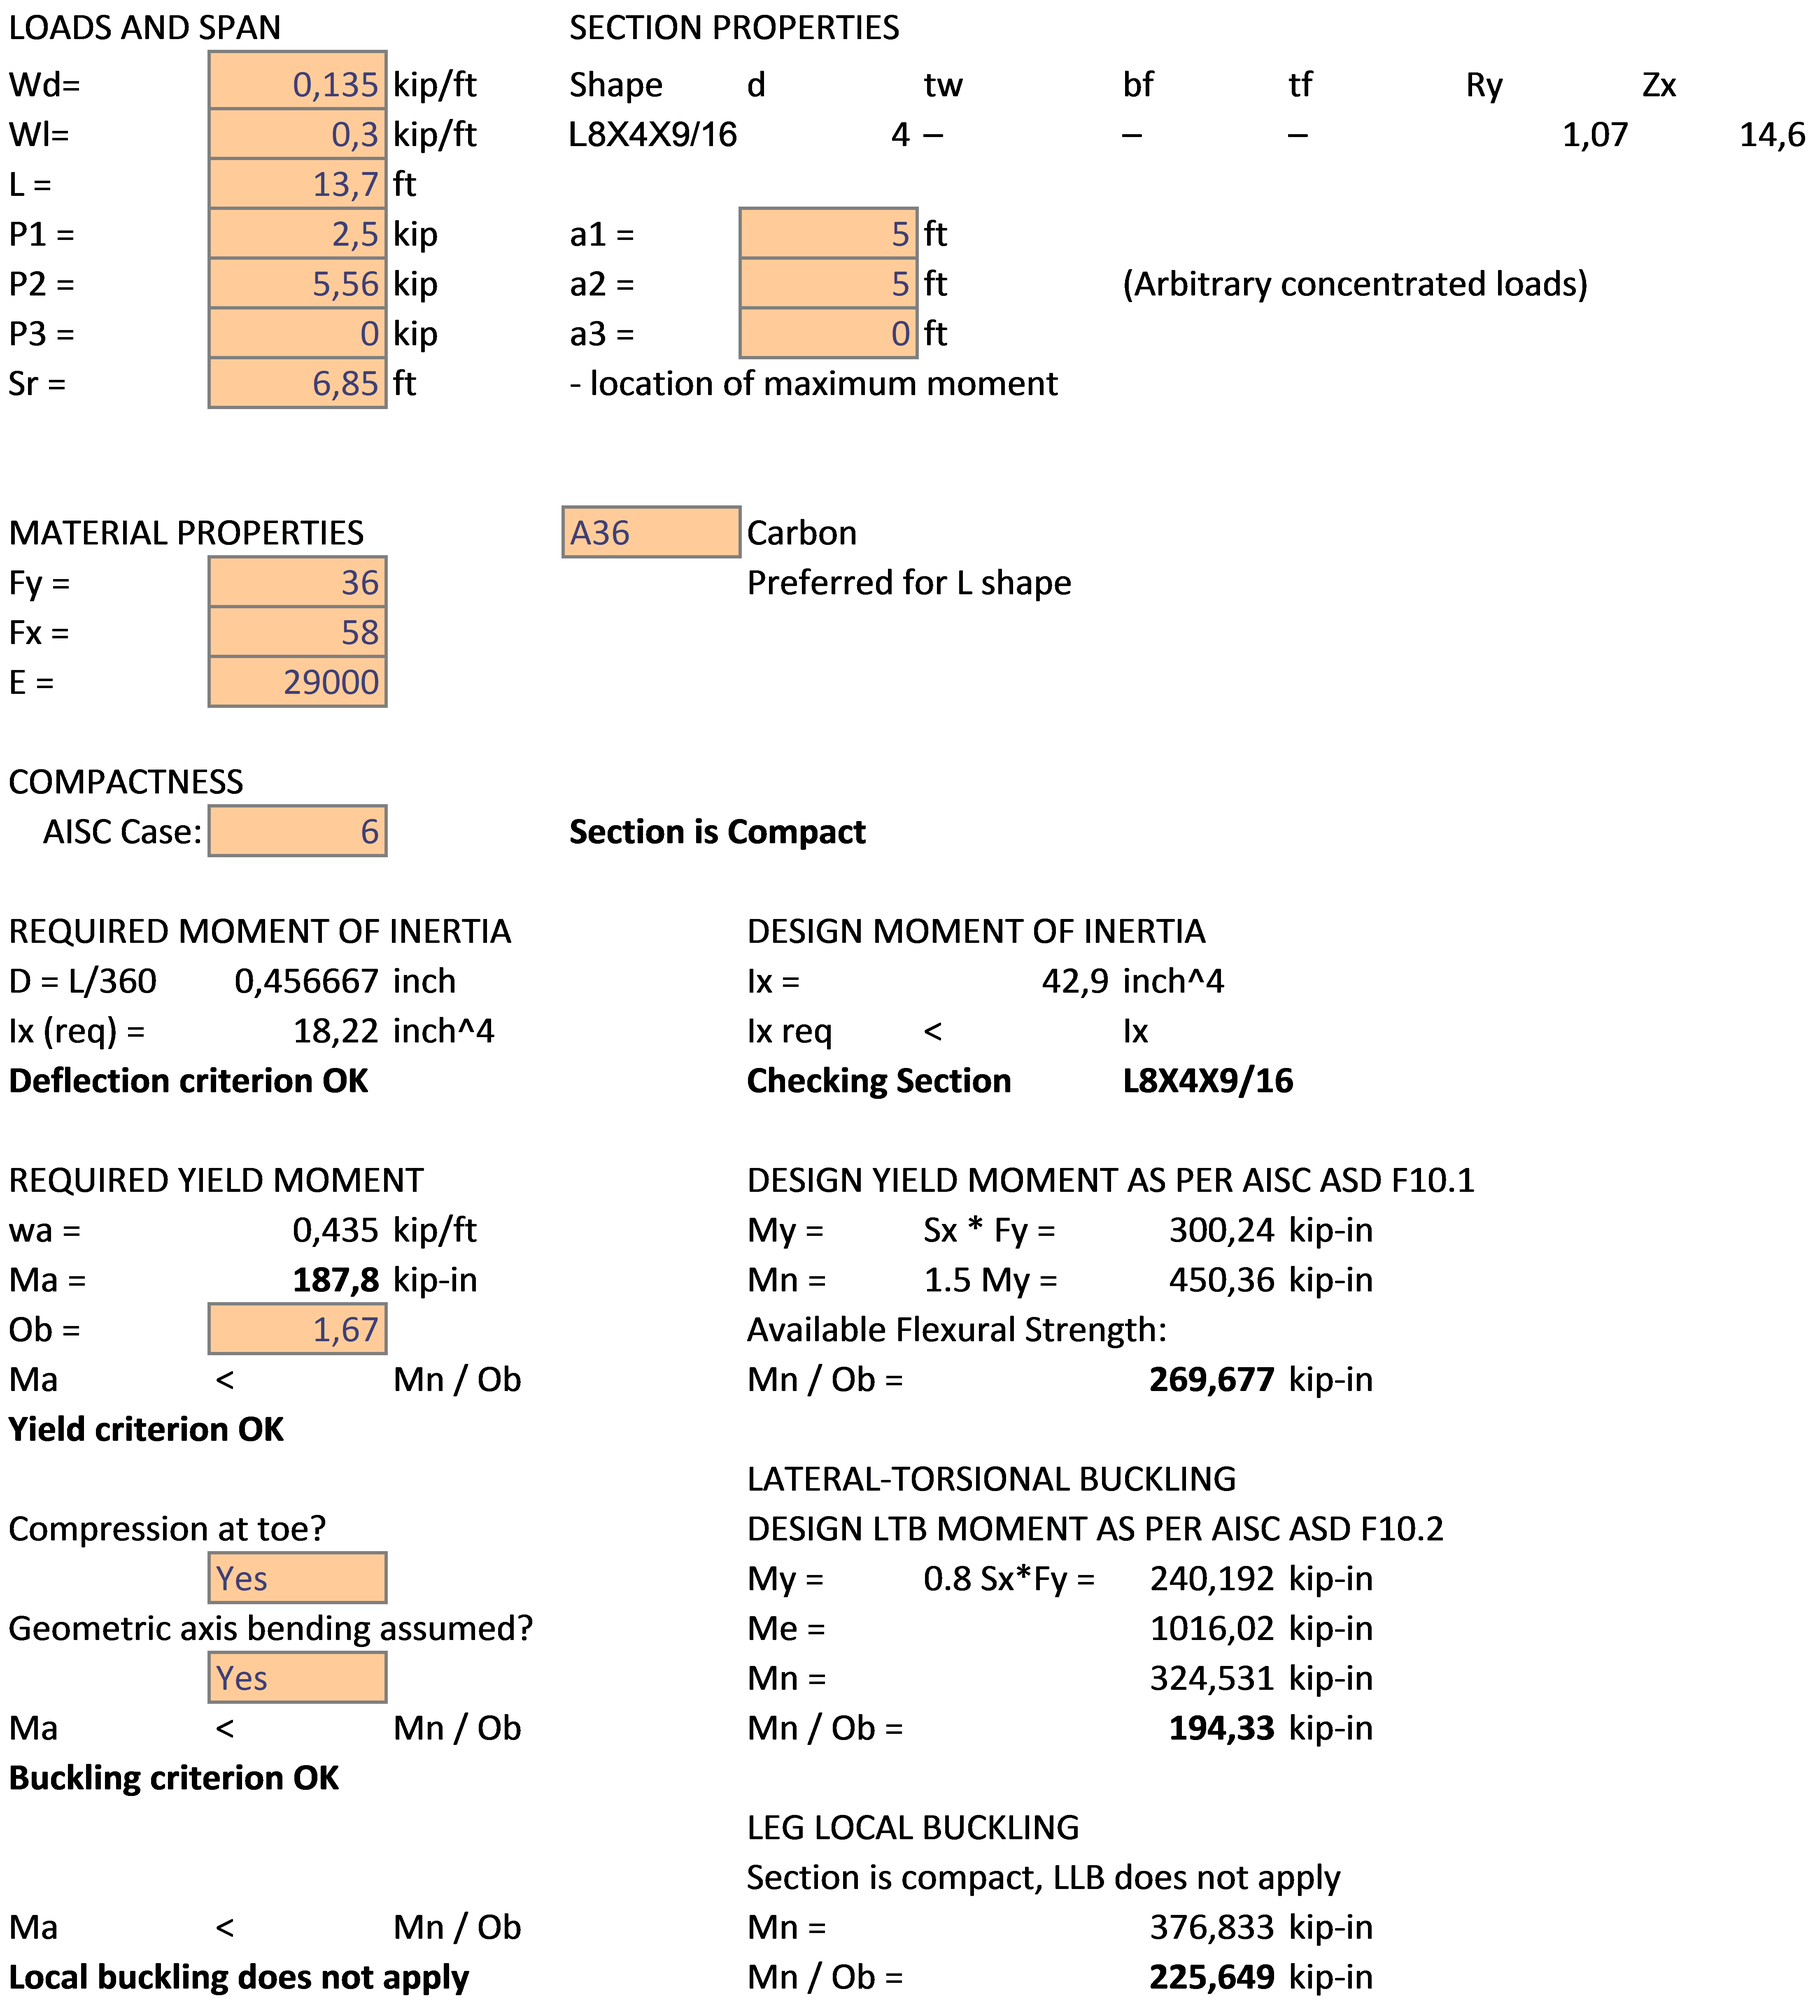
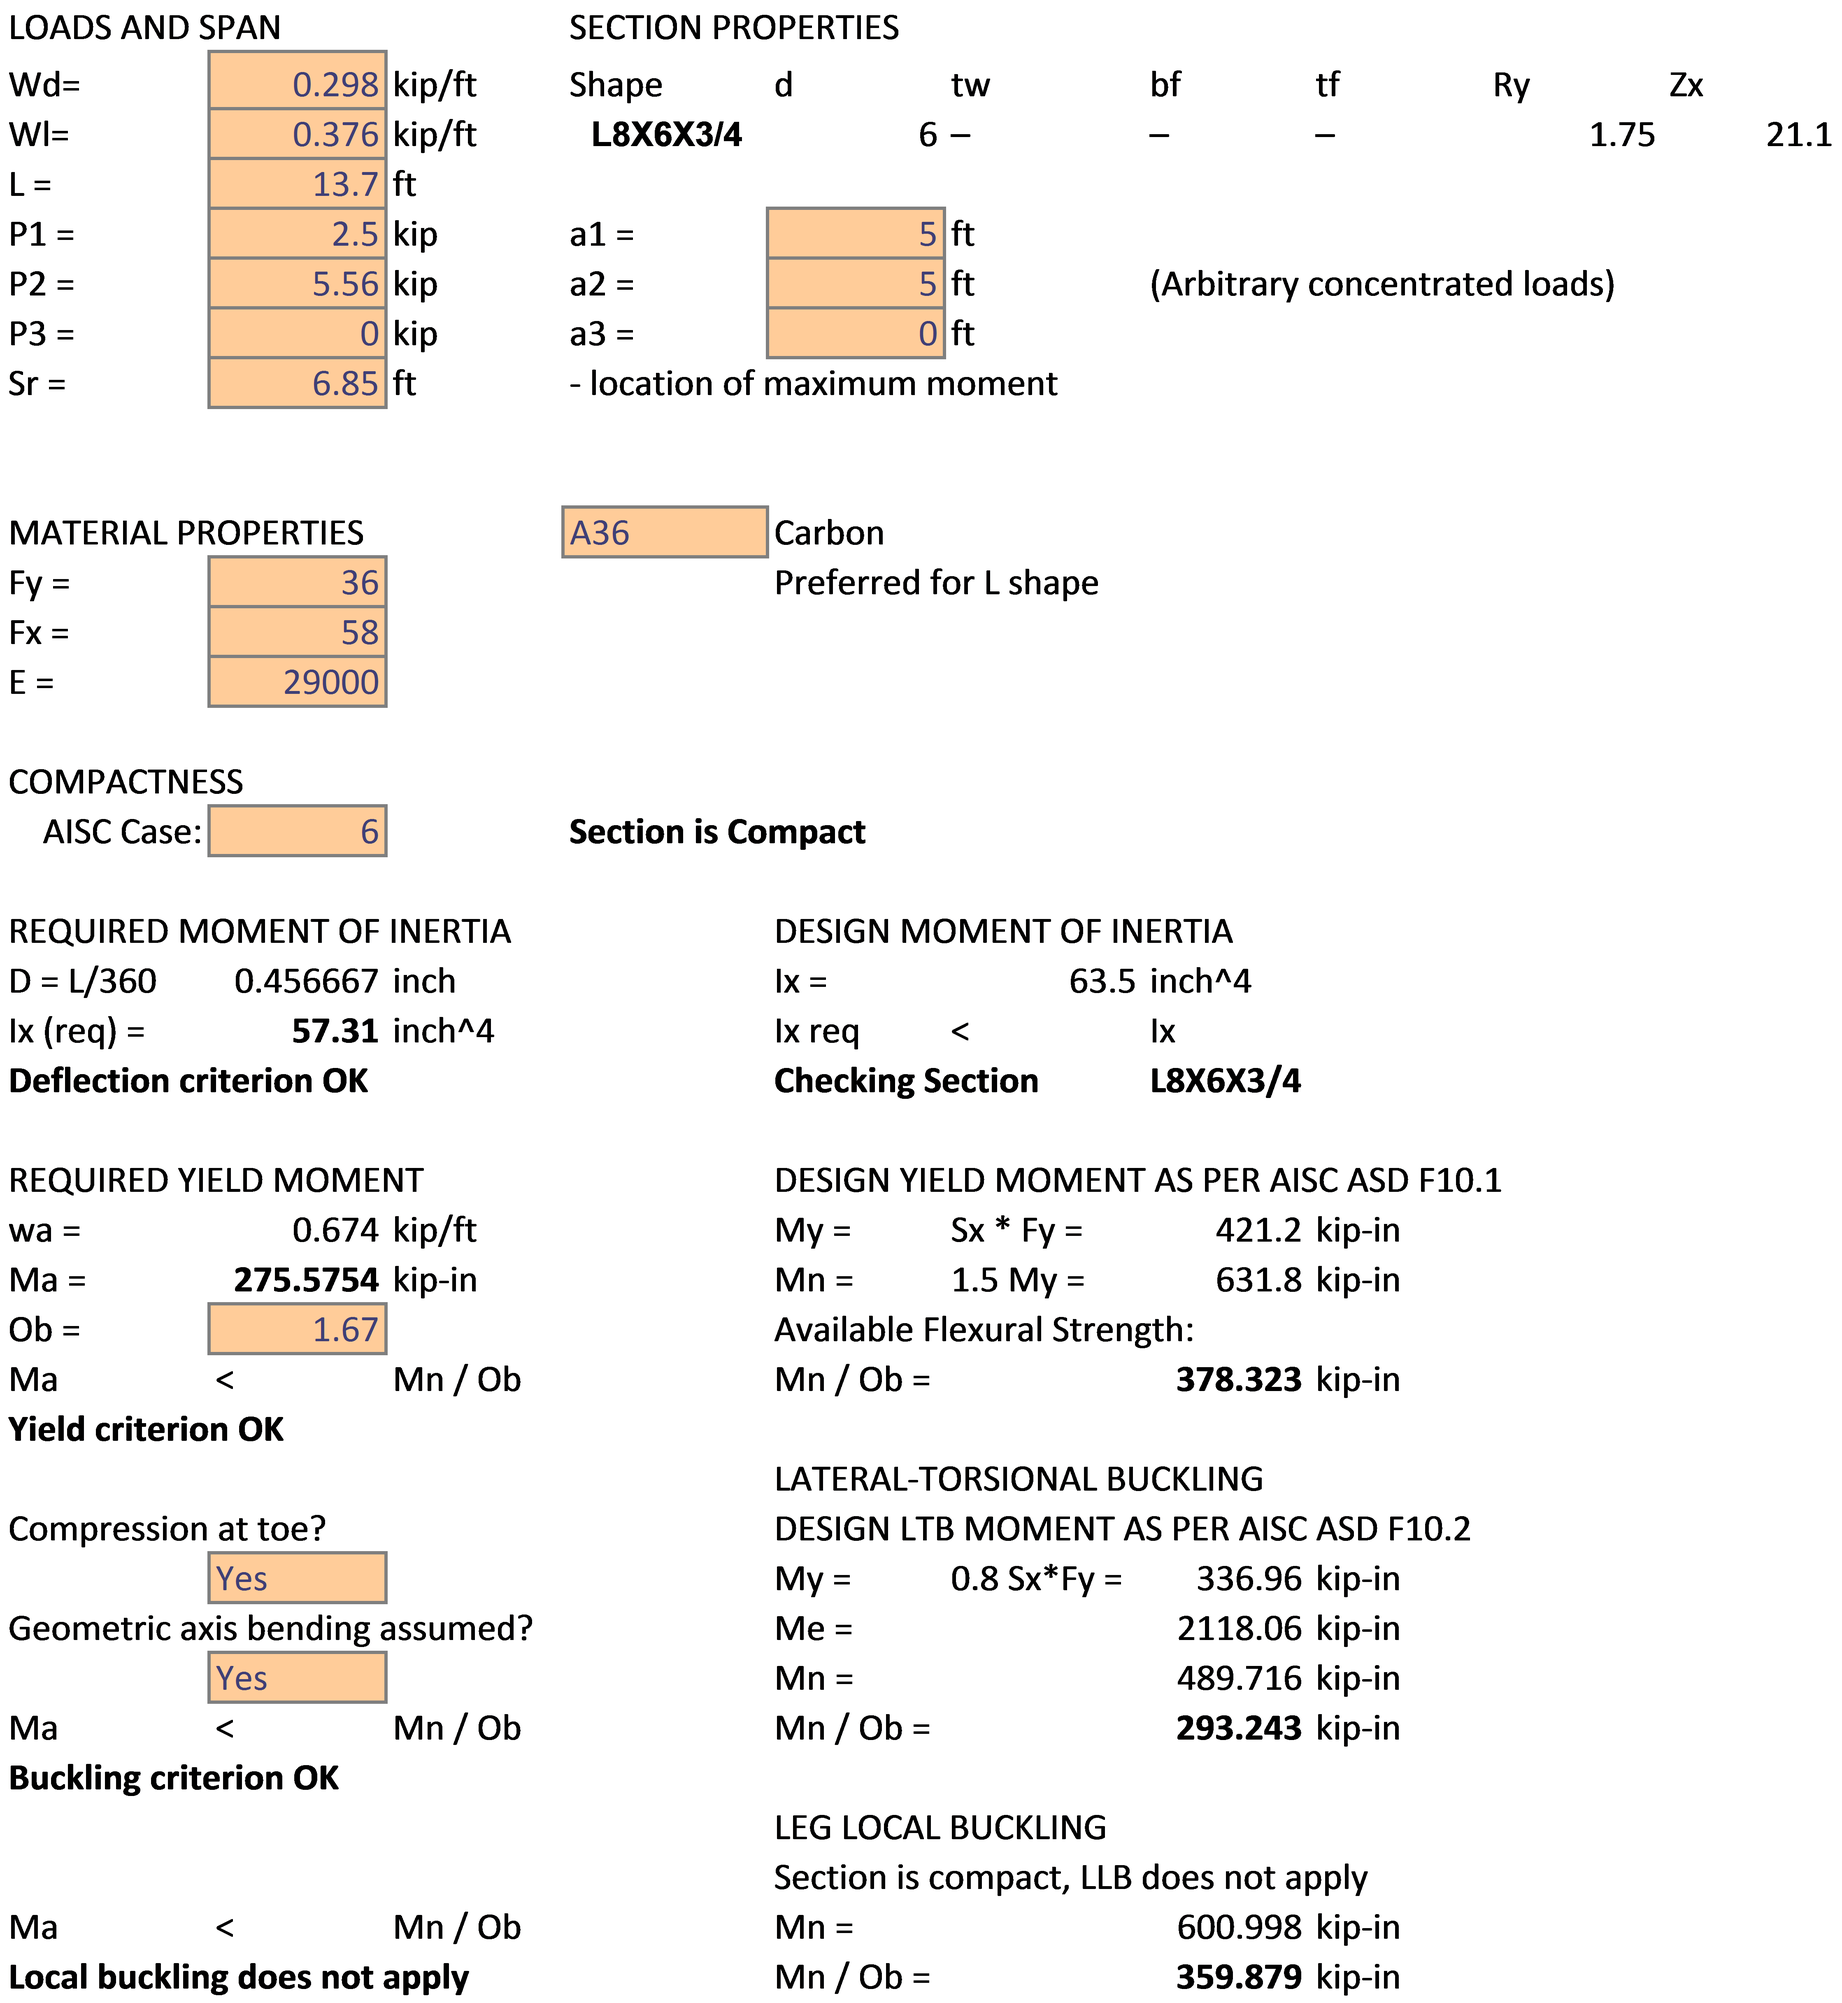
Updated Lintel beam design

diff --git a/Structural/Beams-central.md b/Structural/Beams-central.md
@@ -26,6 +26,8 @@ Walls: light-frame wood walls        D2 = approx 6 psf
 
 Max D1+D2+D3 & Dmin            **D = D1+D2 = 18 psf**
 
+Snow Load				= **15.9 psf**
+
 **D** = 18 psf        as per WAC Chapter SPS 321, calculation  
 **L** = 40 psf        as per WAC Chapter SPS 321 Table 321.02
 
@@ -89,11 +91,27 @@ Loads Calculation
 
     Span 1:
 
-Load Area         = 12 x 7.5 = 90 sf.
+Load Area         	= 12 x 7.5 	= 90 sf.
+Roof/ceiling load span 		 	= 12 ft.
 
-    Dead Load         = 90 x 18 / 12 = 135 pf = 0.135 kip/ft
+    Dead Load 1        		= 90 x 18 / 12 = 135 pf = 0.135 kip/ft
 
-    Live Load        = 90 x 40 /12 = 300 pf = 0.3 kip/ft
+	Dead Load, Roof:
+	Minimum value: 			Dmin = 10 psf;
+	Rafters 				D1 = 3 psf;
+	Plywood & sheathing 	D2 = 3psf/inch * 0.75 = 2.25 psf
+	Roofing				    D3 = 2 psf
+	Max D1+D2+D3 & Dmin		D = 10 psf
+
+	Dead Load, Ceiling:		D1 (wood joists) 	= 0.85 psf
+							D2 (gypsum 5/8")	= 2.75 psf
+							D = D1 + D2 		= 3.6 psf
+	Dead Load 2 			= (10 + 3.6) * 12 	= 0.163 kip/ft
+
+	Snow Load Area:			2/5 of roof area
+
+    Live Load        	= 90 x 40 /12 = 300 pf 	= 0.3 kip/ft
+    Snow Load 			= 15.9 * 12 * 2/5 		= 0.076 kip/ft
 
     Span 2:
 
@@ -165,7 +183,7 @@ Unbraced:                 = A992 Steel, W Shape **W6X16** (see Calculation 3.1.1
 
 4.2. Floor 2, Lintel Beam Design – Beam at grid (4).  
 
-Unbraced:                 = A36 Steel, L Shape **L8X4X9/16** (see Calculation 3.2.)
+Unbraced:                 = A36 Steel, L Shape **L8X6X3/4** (see Calculation 3.2.)
 
 4.3. Floor 2, Main Beam Design – Beam at grid (H).  
 
